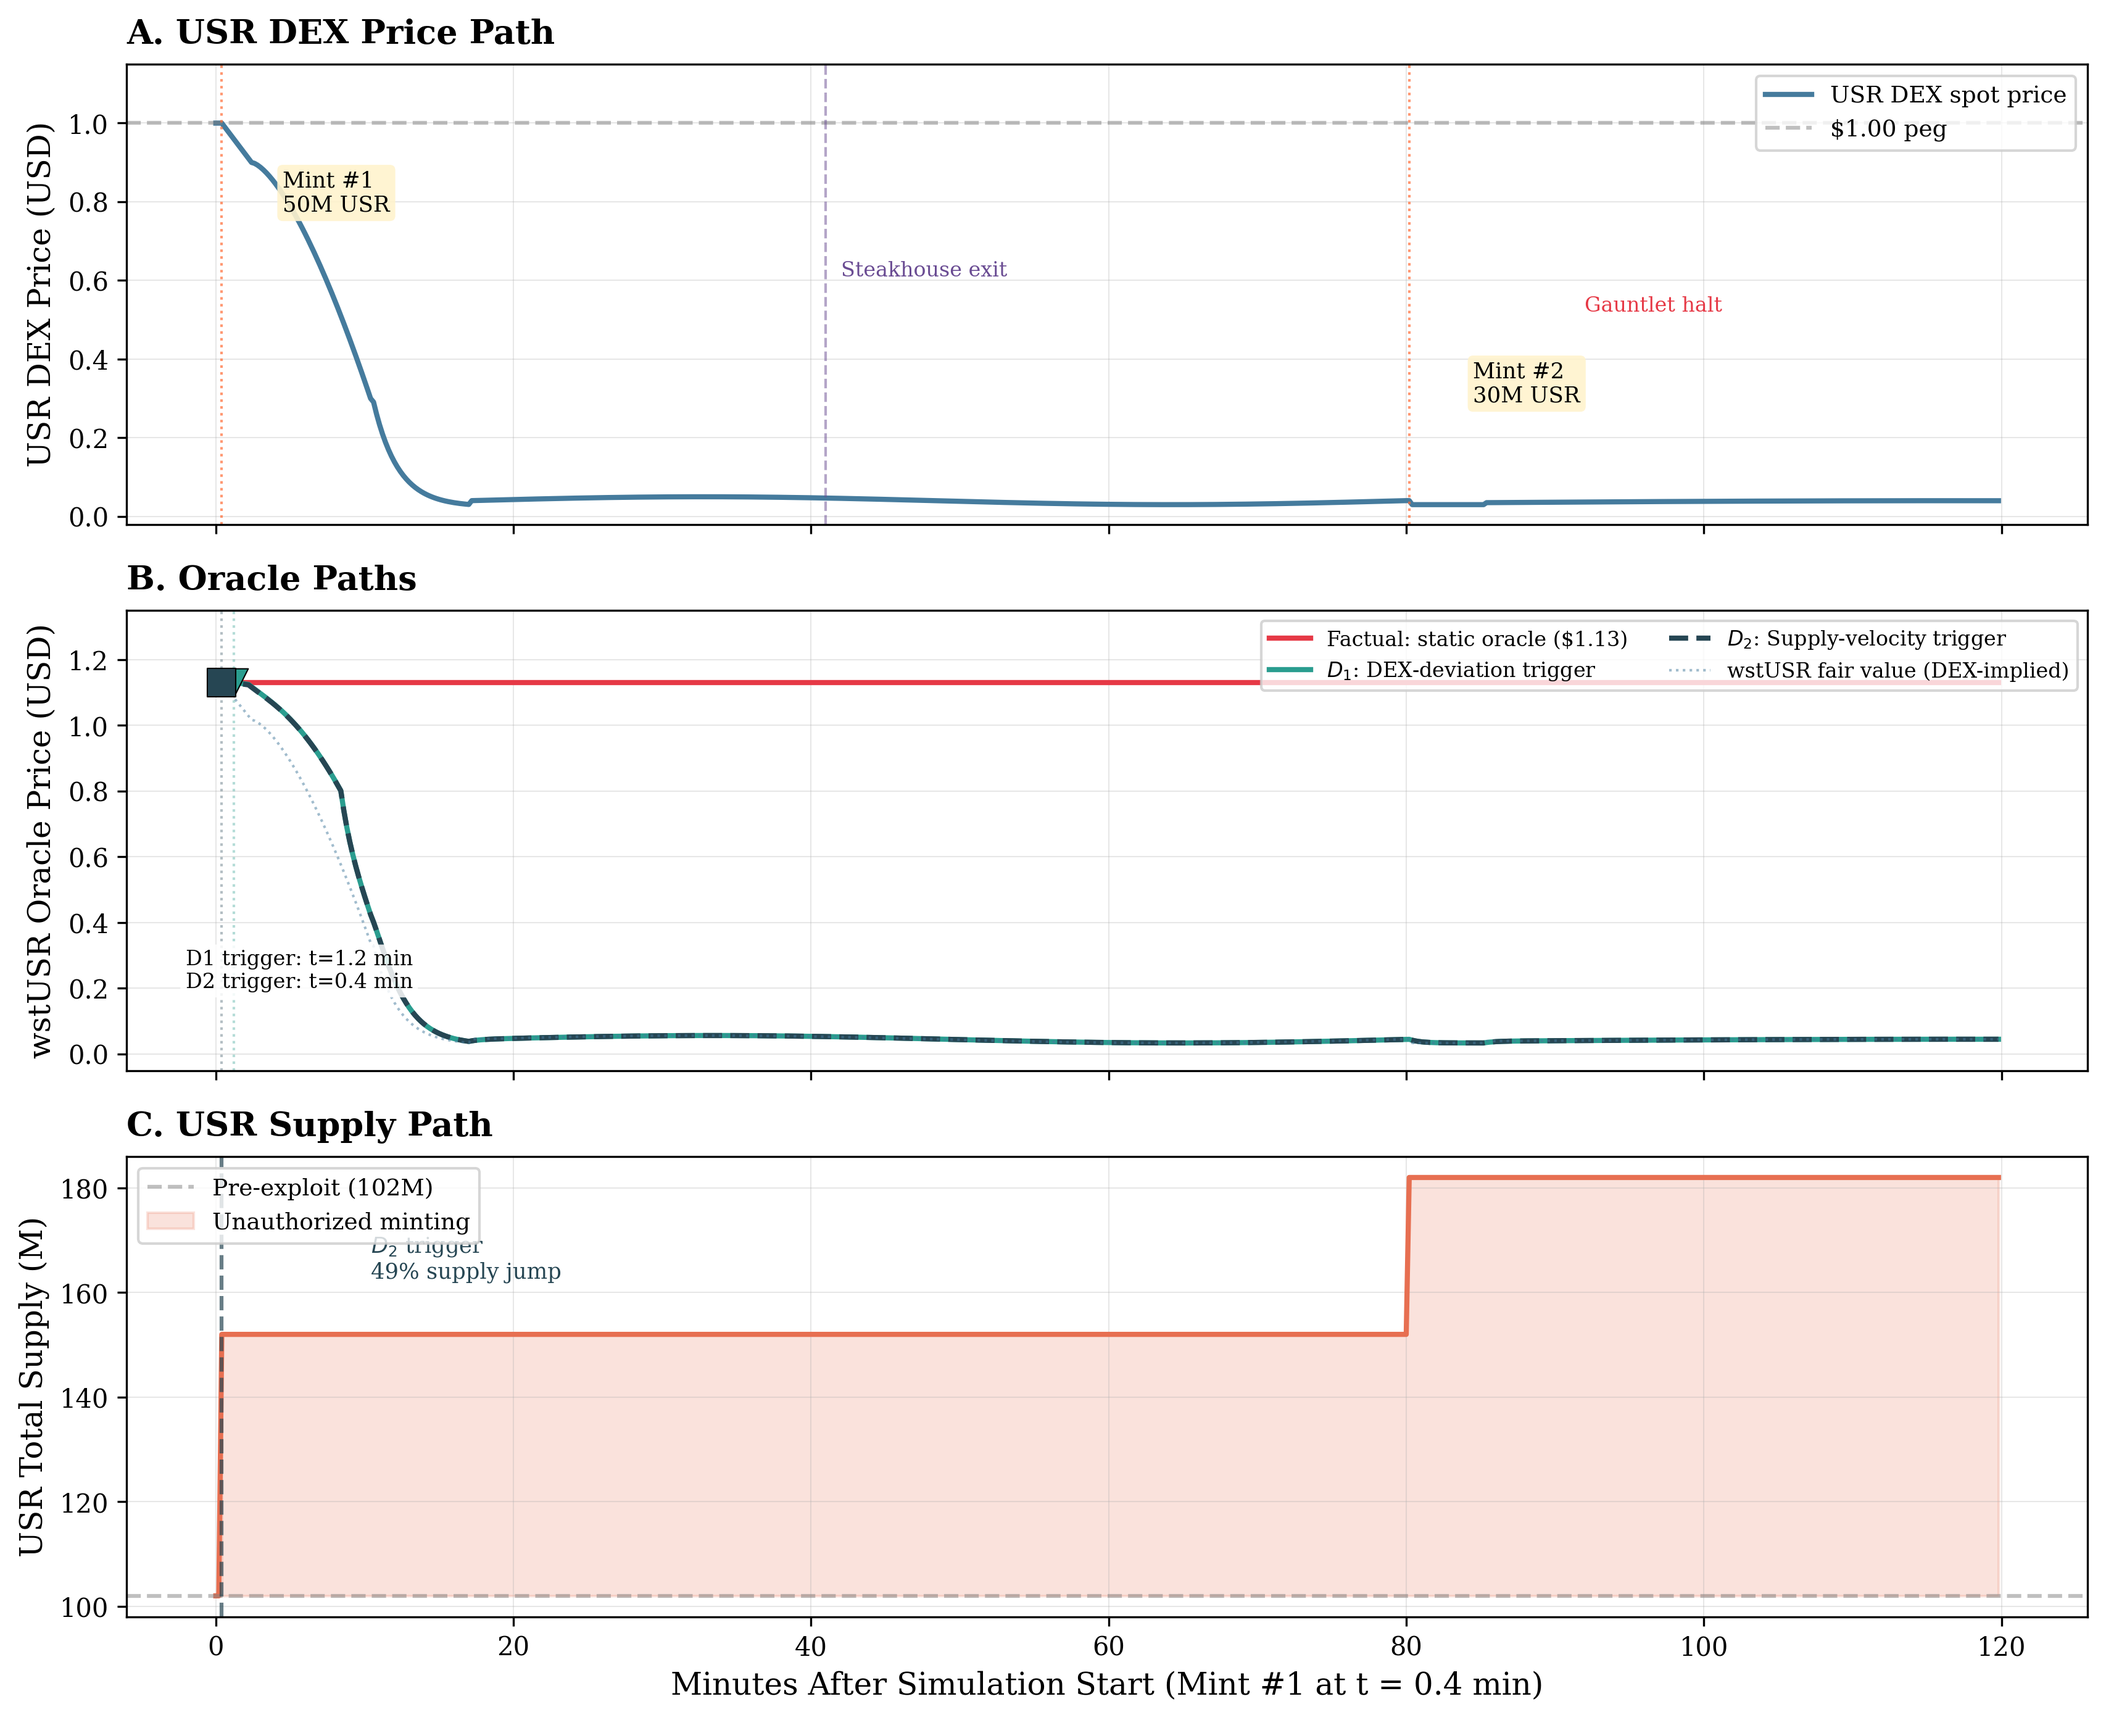
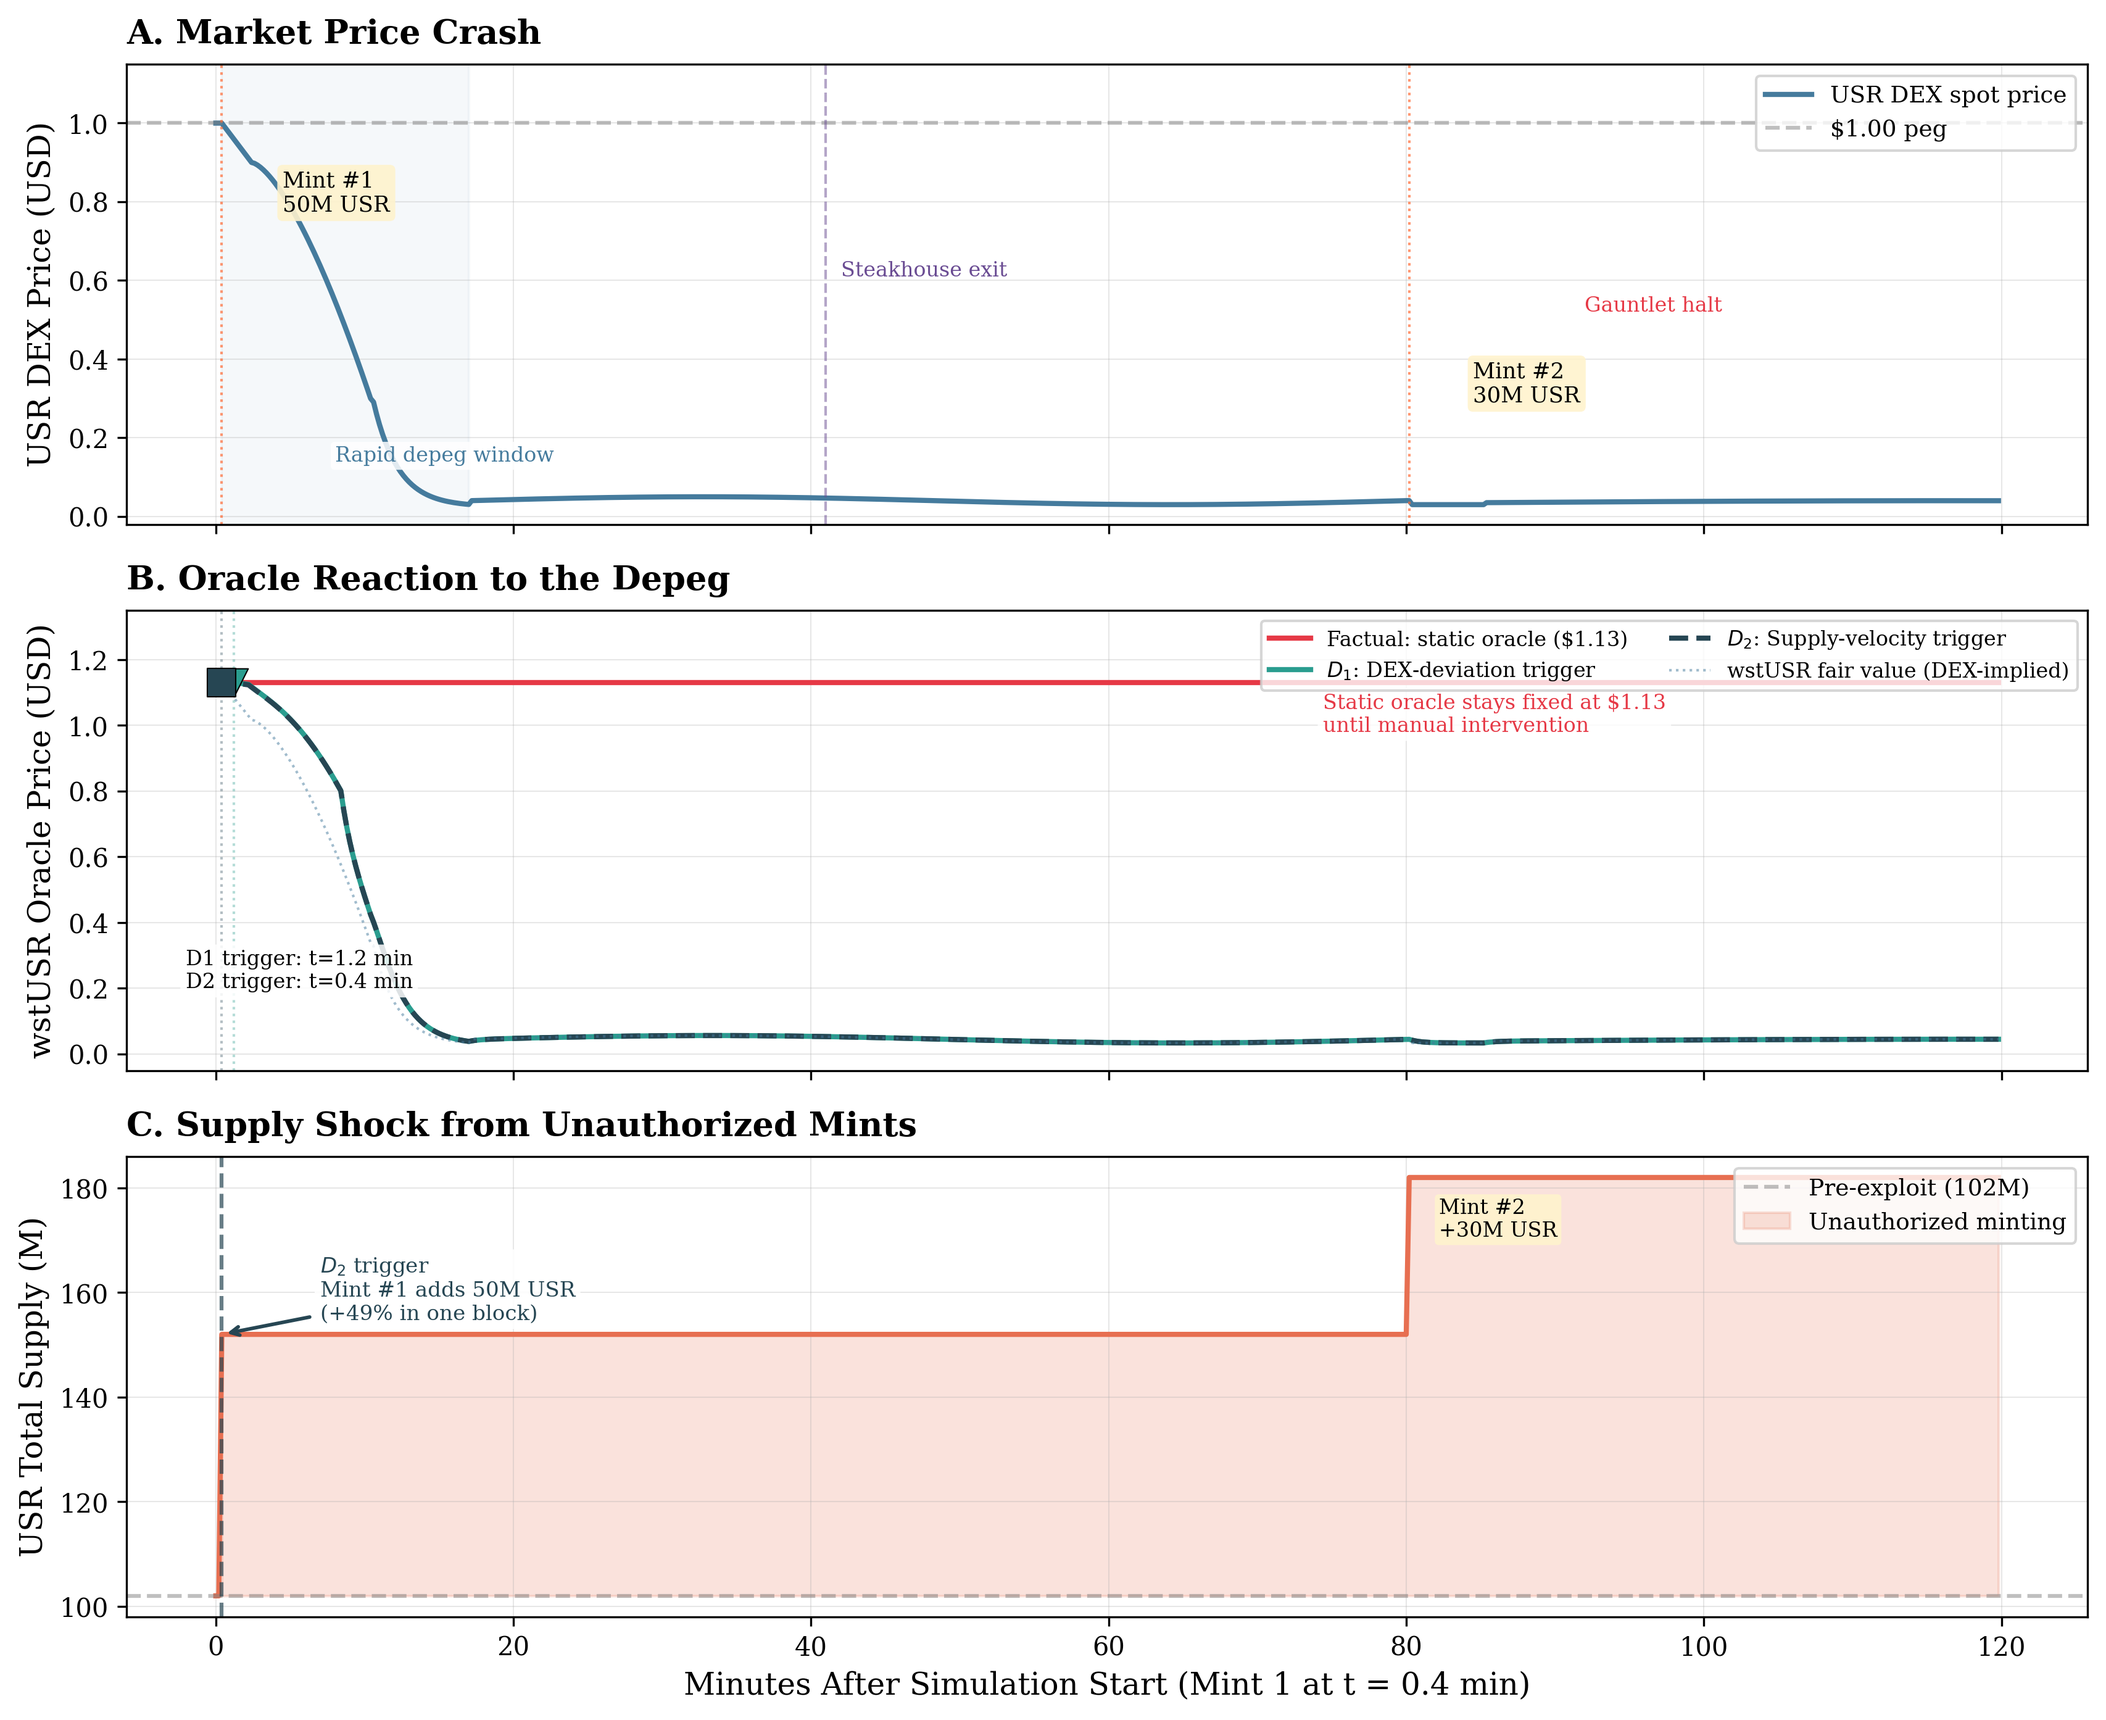
Refine timeline figure layout

diff --git a/src/figures.py b/src/figures.py
@@ -96,6 +96,8 @@ def fig_timeline_oracle_paths(results: dict[str, SimResult], output_dir: Path):
     ax.plot(t, results['factual'].dex_price, color=COLORS['dex_price'],
             linewidth=2, label='USR DEX spot price')
     ax.axhline(1.0, color='gray', ls='--', alpha=0.5, label='$1.00 peg')
+    ax.axvspan(GRID.MINT1_OFFSET_MIN, TIMELINE.USR_BOTTOM_TIME_MIN,
+               color=COLORS['dex_price'], alpha=0.05)
     ax.axvline(GRID.MINT1_OFFSET_MIN, color=COLORS['trigger'], ls=':', alpha=0.7, lw=1)
     ax.axvline(GRID.MINT2_OFFSET_MIN, color=COLORS['trigger'], ls=':', alpha=0.7, lw=1)
     ax.axvline(TIMELINE.STEAKHOUSE_EXIT_MIN, color=COLORS['steakhouse'],
@@ -109,9 +111,11 @@ def fig_timeline_oracle_paths(results: dict[str, SimResult], output_dir: Path):
             fontsize=8, color=COLORS['steakhouse'], va='top')
     ax.text(TIMELINE.GAUNTLET_INTERVENE_MIN + 1.0, 0.56, 'Gauntlet halt',
             fontsize=8, color=COLORS['factual'], va='top')
+    ax.text(8.0, 0.14, 'Rapid depeg window', fontsize=8, color=COLORS['dex_price'],
+            bbox=dict(boxstyle='round,pad=0.2', fc='white', ec='none', alpha=0.85))
 
     ax.set_ylabel('USR DEX Price (USD)')
-    _compact_panel_title(ax, 'A', 'USR DEX Price Path')
+    _compact_panel_title(ax, 'A', 'Market Price Crash')
     ax.set_ylim(-0.02, 1.15)
     ax.legend(loc='upper right')
 
@@ -144,9 +148,13 @@ def fig_timeline_oracle_paths(results: dict[str, SimResult], output_dir: Path):
         ax.text(0.03, 0.17, trigger_text, transform=ax.transAxes,
                 fontsize=8, va='bottom',
                 bbox=dict(boxstyle='round,pad=0.25', fc='white', ec='none', alpha=0.85))
+    ax.text(0.61, 0.82, 'Static oracle stays fixed at $1.13\nuntil manual intervention',
+            transform=ax.transAxes, fontsize=8, color=COLORS['factual'],
+            ha='left', va='top',
+            bbox=dict(boxstyle='round,pad=0.25', fc='white', ec='none', alpha=0.85))
 
     ax.set_ylabel('wstUSR Oracle Price (USD)')
-    _compact_panel_title(ax, 'B', 'Oracle Paths')
+    _compact_panel_title(ax, 'B', 'Oracle Reaction to the Depeg')
     ax.set_ylim(-0.05, 1.35)
     ax.legend(loc='upper right', ncol=2, fontsize=8)
 
@@ -161,13 +169,20 @@ def fig_timeline_oracle_paths(results: dict[str, SimResult], output_dir: Path):
     tt_d2 = results['D2'].trigger_time
     if tt_d2 is not None:
         ax.axvline(tt_d2, color=COLORS['D2'], ls='--', alpha=0.7, lw=1.5)
-        ax.text(tt_d2 + 10, 171, r'$D_2$ trigger' + '\n49% supply jump',
-                fontsize=8.5, color=COLORS['D2'], va='top')
+        supply_at_trigger = supply_m[np.argmin(np.abs(t - tt_d2))]
+        ax.annotate(r'$D_2$ trigger' + '\nMint #1 adds 50M USR\n(+49% in one block)',
+                    xy=(tt_d2, supply_at_trigger), xytext=(7.0, 167.0),
+                    fontsize=8.2, color=COLORS['D2'], va='top', ha='left',
+                    arrowprops=dict(arrowstyle='->', color=COLORS['D2'], lw=1.4),
+                    bbox=dict(boxstyle='round,pad=0.25', fc='white', ec='none', alpha=0.9))
+    ax.text(GRID.MINT2_OFFSET_MIN + 2.0, 178.0, 'Mint #2\n+30M USR',
+            fontsize=8, va='top',
+            bbox=dict(boxstyle='round,pad=0.2', fc='#fff3cd', ec='none', alpha=0.9))
 
     ax.set_ylabel('USR Total Supply (M)')
-    ax.set_xlabel('Minutes After Simulation Start (Mint #1 at t = 0.4 min)')
-    _compact_panel_title(ax, 'C', 'USR Supply Path')
-    ax.legend(loc='upper left')
+    ax.set_xlabel('Minutes After Simulation Start (Mint 1 at t = 0.4 min)')
+    _compact_panel_title(ax, 'C', 'Supply Shock from Unauthorized Mints')
+    ax.legend(loc='upper right')
 
     plt.tight_layout()
     _save_figure(fig, output_dir, 'fig_timeline_oracle_paths.png')
